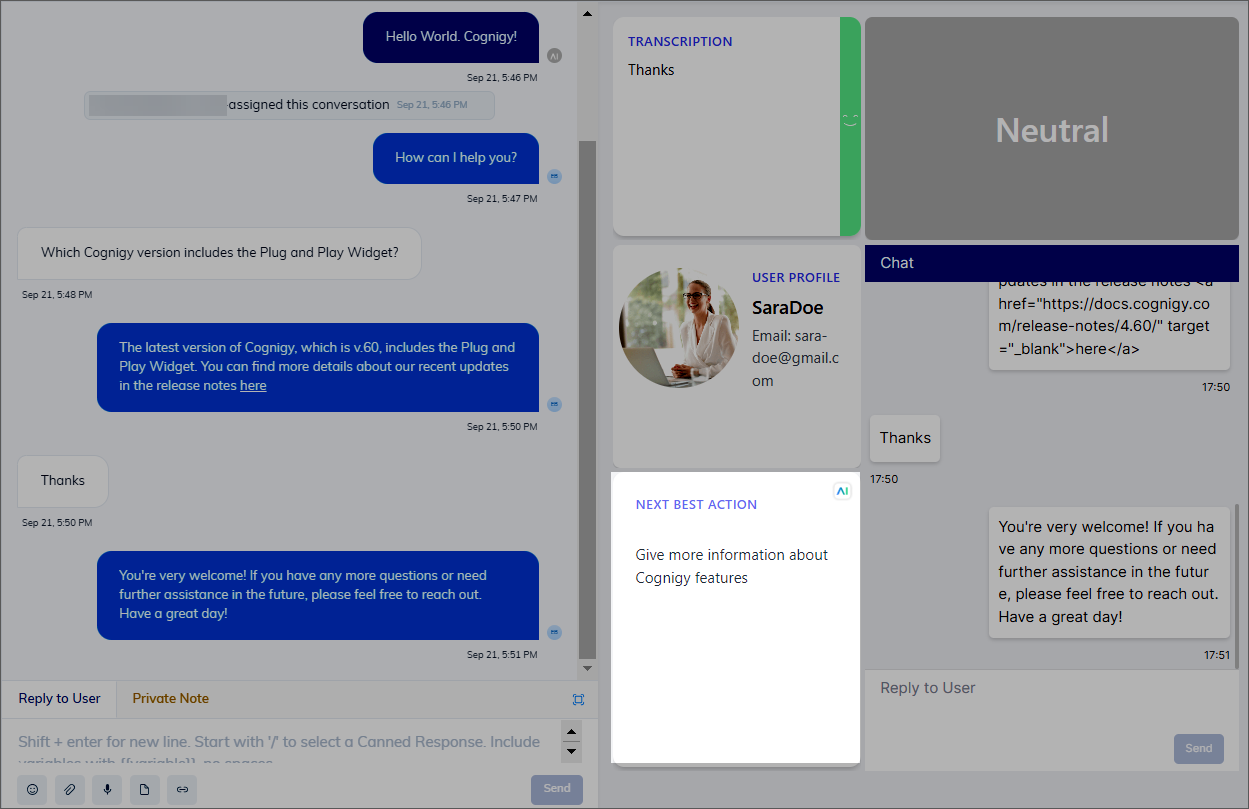
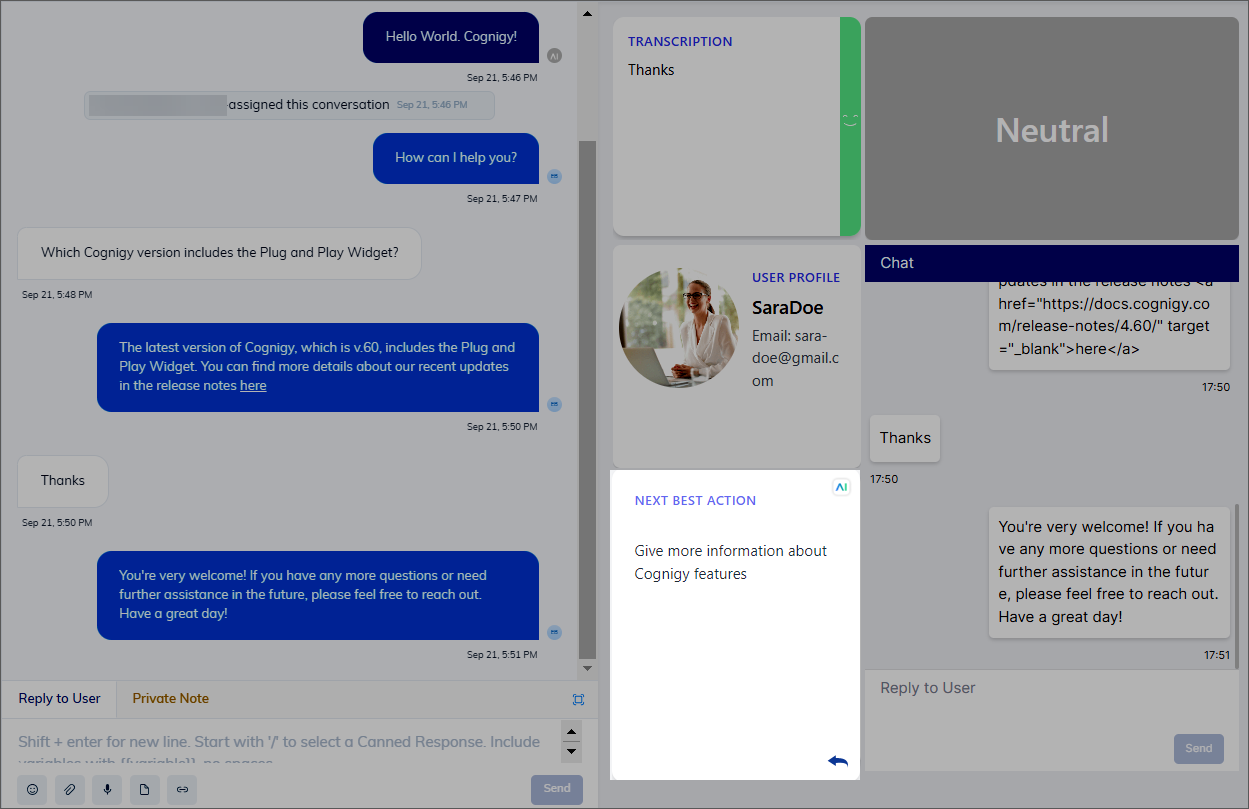
Added the Forwarder option

diff --git a/docs/en/docs/ai/flow-nodes/ai-copilot/next-action-tile.md b/docs/en/docs/ai/flow-nodes/ai-copilot/next-action-tile.md
@@ -6,7 +6,7 @@ hidden: true
 
 # Copilot: Next Action Tile
 
-[![Version badge](https://img.shields.io/badge/Added in-v4.60-blue.svg)](../../../release-notes/4.60.md)
+[![Version badge](https://img.shields.io/badge/Added in-v4.66-blue.svg)](../../../release-notes/4.66.md)
 
 <figure>
   <img class="image-center" src="{{config.site_url}}ai/flow-nodes/images/ai-copilot/next-action-tile.png" width="80%"/>
@@ -29,6 +29,10 @@ This Node helps guide a conversation flow and ensures that the system responds e
 
 This Node helps the human agent by providing guidance and predefined instructions based on the user's question. 
 For instance, if a user asks about the latest release version, the agent can give them both the answer and links to important updates in that release.
+
+If you are using Live Agent as a handover provider,
+you can forward information from the widget to the **Reply to User** section
+by clicking ![vertical-ellipsis](../../../live-agent/images/icons/forwarder.svg) and then sending it to the end user.
 
 <figure>
   <img class="image-center" src="{{config.site_url}}ai/flow-nodes/images/ai-copilot/next-action-tile-example.png" width="80%"/>
